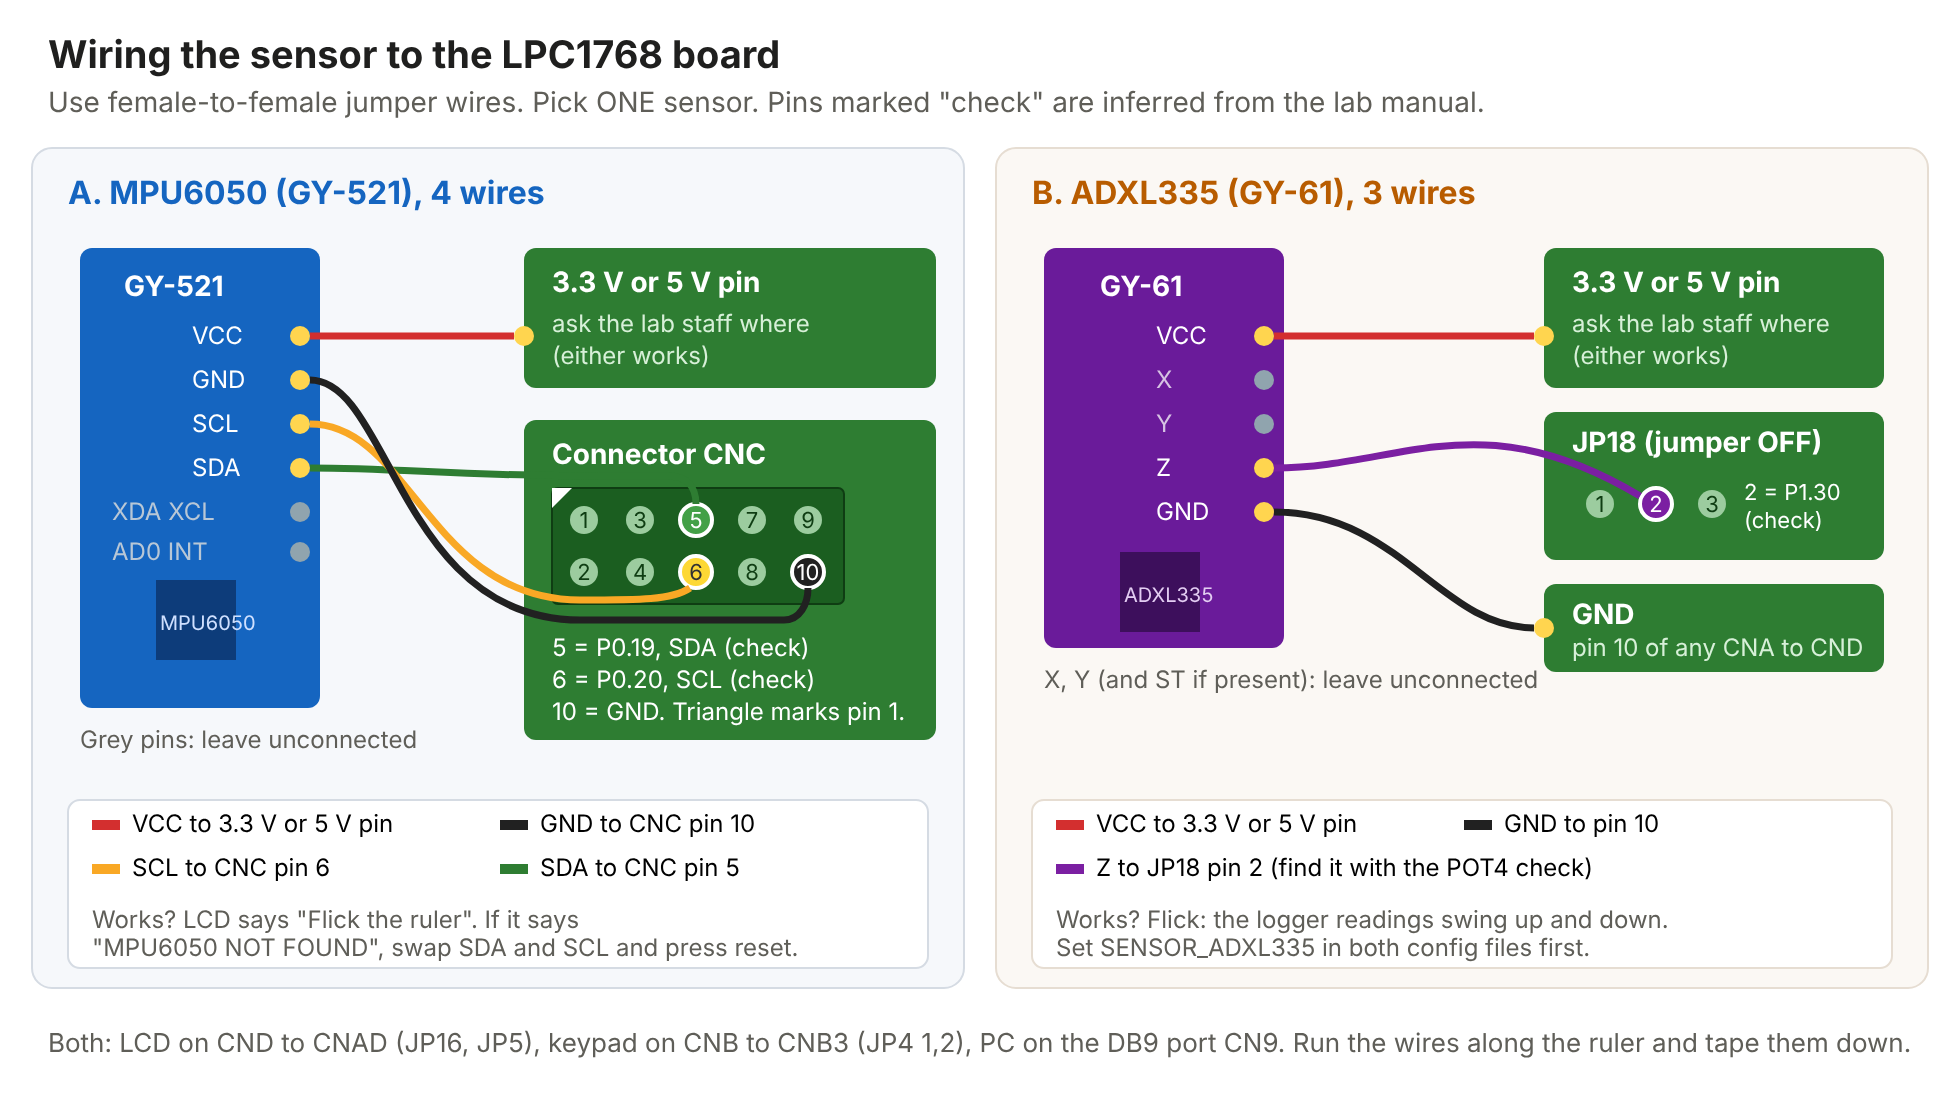
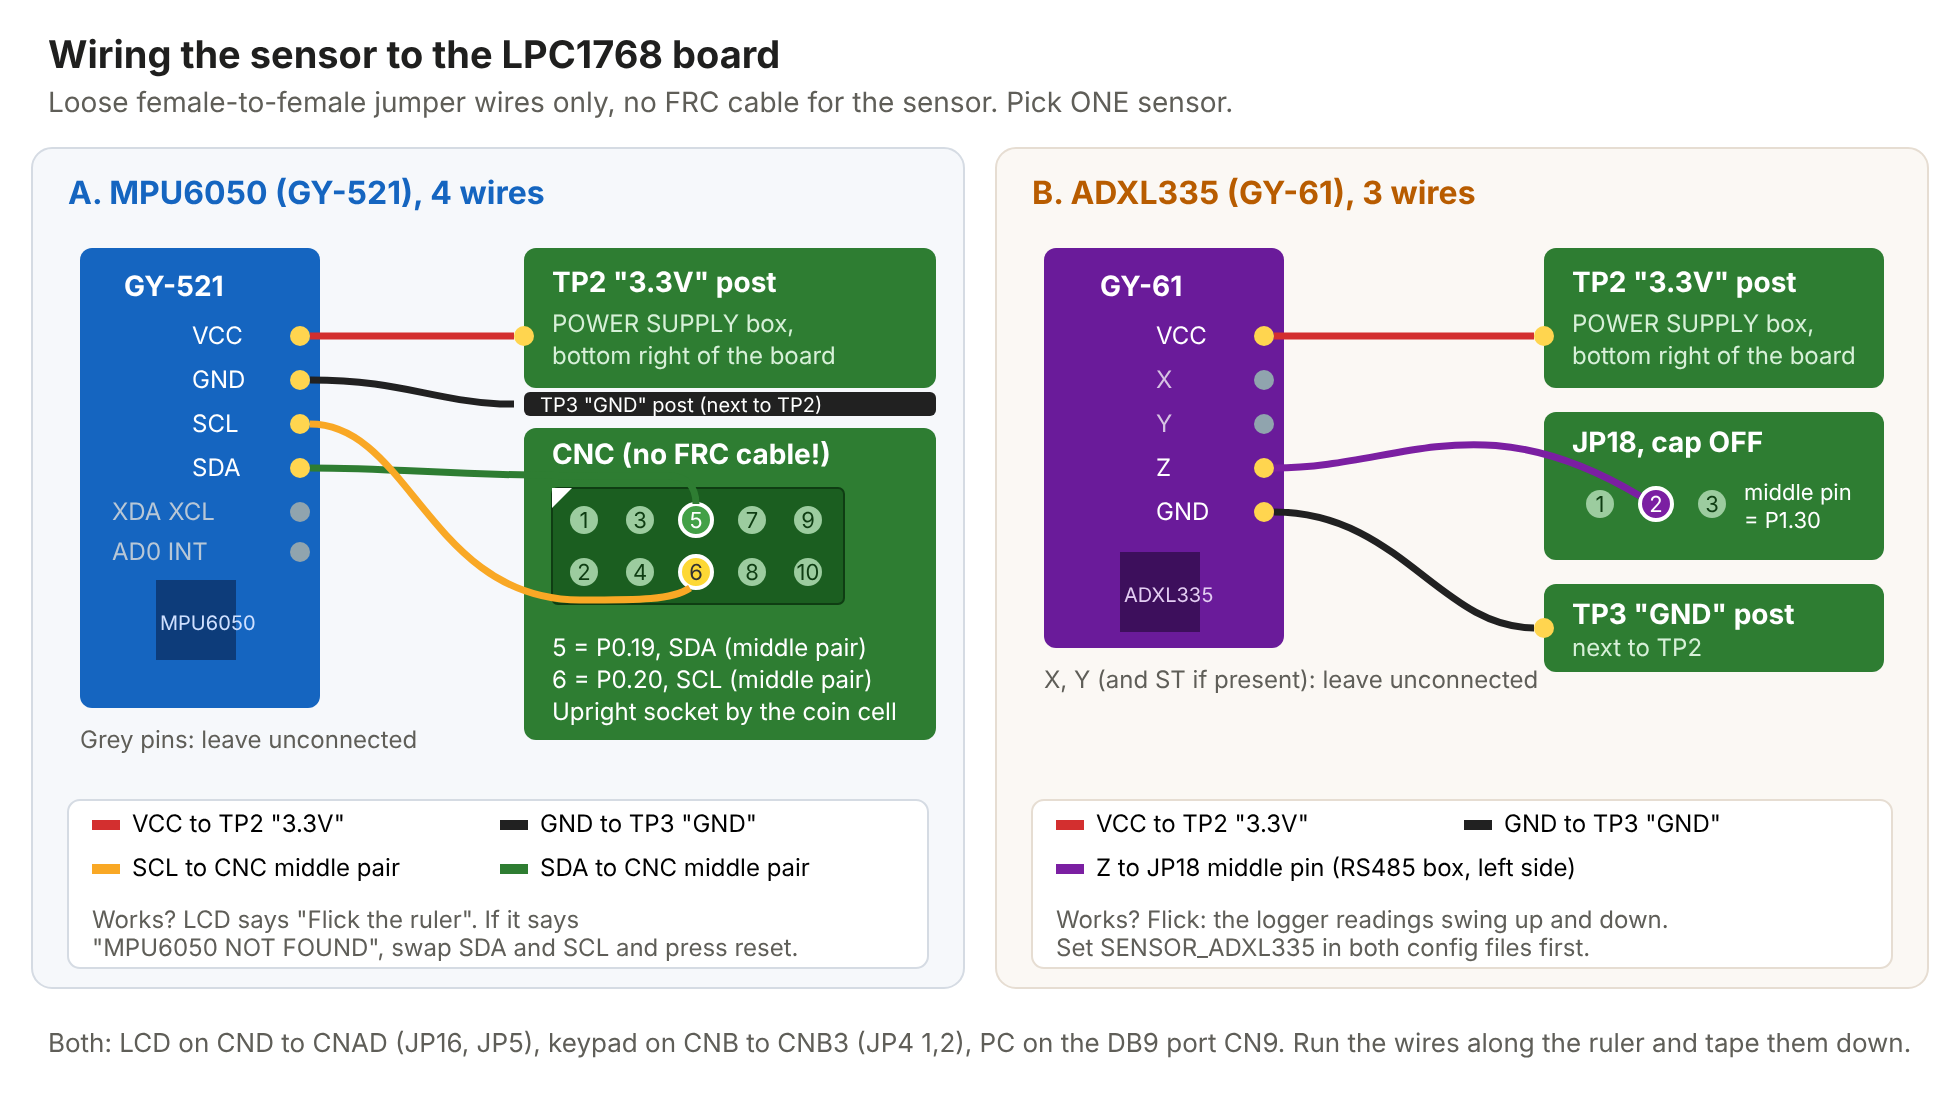
Build guide: board photo table, no-FRC sensor wiring, updated wiring diagram

diff --git a/docs/BUILD_GUIDE.md b/docs/BUILD_GUIDE.md
@@ -108,48 +108,76 @@ write the numbers down so you can rebuild it the same way.
 
 ## Part 3: Wire the sensor to the board
 
+**Important: no FRC ribbon cable for the sensor.** An FRC cable only joins
+one 10-pin socket to another 10-pin socket (like CND to CNAD for the LCD).
+The sensor module has single pins, so it connects with **loose
+female-to-female jumper wires**, one wire per pin. The FRC cables are only
+for the LCD and the keypad.
+
+### Where everything is on the lab board
+
+![Where everything is on the lab board](img/board_annotated.png)
+
+| Mark on the photo | What it is | Used for |
+|---|---|---|
+| 1: TP2 "3.3V" | Small black test post in the POWER SUPPLY box, bottom right | Sensor VCC (both sensors) |
+| 2: TP3 "GND" | The post right next to TP2 | Sensor GND (both sensors) |
+| TP1 "+5V" | Third post | Not needed |
+| 3: JP18 | Small 3-pin jumper in the RS485 box on the left side, just above the coin cell. Normally a plastic cap joins pins 2 and 3, linking the AD0.4 knob (POT4) to the processor | ADXL335 only: cap off, Z wire on the **middle pin** (P1.30). Leave it alone for the MPU6050 |
+| AD0.4 pot (POT4) | Blue knob at the top, next to AD0.5 | Dry run with the ADXL335 setting |
+| 4: CNC | The upright 10-pin socket to the left of the clear processor cover, beside the coin cell | MPU6050 only: SDA and SCL on the **middle pair** of pins (pins 5 and 6) |
+| CNB | The socket on the right of the processor cover (where the ribbon is in the photo) | Keypad cable (CNB to CNB3) |
+| 5: CNAD | Socket just under the LCD, next to POT2 | LCD cable (CND to CNAD) |
+| 6: CNB3 | Socket to the right of the 4x4 keys | Keypad cable |
+
+TP2 and TP3 are test posts, not header pins. If a female jumper end doesn't
+grip them firmly, use a small crocodile-clip lead (about Rs 50 for a pack).
+
+### The wiring for each sensor
+
 ![Wiring for both sensors](img/wiring.png)
 
-### If you use the MPU6050 (GY-521)
+#### If you use the MPU6050 (GY-521): 4 wires
 
-The GY-521 has 8 pins. You only use 4. Use **female-to-female** wires: one
-end goes on the module's pin, the other on the board's header pin (both are
-male pins).
+1. Leave CNC empty: no FRC cable in it.
+2. Take 4 female-to-female jumper wires. Push one end of each onto the
+   GY-521's **VCC**, **GND**, **SCL** and **SDA** pins.
+3. Push the other ends on like this:
 
-| GY-521 pin | Goes to on the LPC1768 board |
+| GY-521 pin | Goes to |
 |---|---|
-| VCC | **TP2, marked "3.3V"**, in the POWER SUPPLY box at the bottom right of the board |
-| GND | **TP3, marked "GND"**, right next to TP2 (or pin 10 of any 10-pin FRC connector) |
-| SCL | Connector **CNC** (the upright 10-pin socket left of the processor cover, beside the coin cell), middle row, pin 6 (P0.20) |
-| SDA | Connector **CNC**, middle row, pin 5 (P0.19), next to SCL |
+| VCC | **TP2 "3.3V"** |
+| GND | **TP3 "GND"** |
+| SDA | **CNC, middle pair**, pin 5 (P0.19) |
+| SCL | **CNC, middle pair**, pin 6 (P0.20), beside SDA |
 | XDA, XCL, AD0, INT | Leave unconnected |
 
-**Pins 5 and 6 are always the middle pair** of a 10-pin socket (pairs go
-1-2, 3-4, 5-6, 7-8, 9-10), so put SDA and SCL on the two middle pins. If the
-LCD says MPU6050 NOT FOUND, just swap those two wires.
+The black plastic box around CNC is only a guide. The jumper ends slide in
+side by side onto the metal pins inside it. Pins in a 10-pin socket go in
+pairs (1-2, 3-4, 5-6, 7-8, 9-10), so pins 5 and 6 are always the middle pair,
+whichever way up the socket is. If the LCD says **MPU6050 NOT FOUND**, swap
+the SDA and SCL wires and press reset.
 
-**Finding pin 1 on CNC (only matters for pin 10):** the 10-pin box connector has a small
-triangle or "1" next to pin 1. Pins are numbered in a zigzag: 1 and 2 face
-each other, then 3 and 4, and so on, with pin 10 at the far end. Check the
-CNC picture in Appendix C of the lab manual (or ask the staff) to confirm
-that pins 5 and 6 are P0.19 and P0.20.
+#### If you use the ADXL335 (GY-61): 3 wires
 
-### If you use the ADXL335 (GY-61)
+The GY-61 has 5 pins (VCC, X, Y, Z, GND; some have a 6th, ST). You use 3.
 
-The GY-61 has 5 pins (VCC, X, Y, Z, GND; some have a 6th, ST). You only use 3.
+1. Pull the plastic cap off JP18 and keep it safe (you need it back for
+   normal lab experiments).
+2. Take 3 female-to-female jumper wires and connect:
 
-| GY-61 pin | Goes to on the LPC1768 board |
+| GY-61 pin | Goes to |
 |---|---|
-| VCC | **TP2, marked "3.3V"**, in the POWER SUPPLY box at the bottom right |
-| GND | **TP3, marked "GND"**, next to TP2 |
-| Z | The **middle pin of JP18** (in the RS485 box, left side of the board). Take the JP18 jumper cap off first and keep it safe |
+| VCC | **TP2 "3.3V"** |
+| GND | **TP3 "GND"** |
+| Z | **JP18 middle pin** (P1.30, AD0.4) |
 | X, Y, ST | Leave unconnected |
 
-**Finding the right JP18 pin:** before wiring the sensor, put the JP18
-jumper on pins 2 and 3 (the manual's setting for POT4), flash, and turn POT4.
-The logger readings should change. Then take the jumper off and put the Z
-wire on pin 2. Flick: if the readings follow the flick, that's the pin. If
-not, try pin 3.
+**Why the middle pin:** JP18 is a selector. The cap on pins 2 and 3 connects
+the knob to the processor, so the middle pin (pin 2) is the one shared by
+both positions, and that's the processor's input (worked out from the
+layout). To double-check: with the cap on 2 and 3 and the ADXL335 setting
+flashed, turning POT4 should change the logger readings.
 
 **If JP18 doesn't work at all:** put the Z wire on CND pin 1 (P0.23,
 AD0.0), set `ADC_CH 0` and `USE_LCD 0` in `board/config.h`, and read the
@@ -157,12 +185,8 @@ results on the laptop only. The LCD uses CND, so it can't be connected.
 
 ### For both sensors
 
-![Where everything is on the lab board](img/board_annotated.png)
-
-TP2 and TP3 are small test-point posts. If a female jumper doesn't grip, use a small crocodile-clip lead instead.
-
 **Wire routing:**
-- Tape the 4 wires along the ruler with small pieces of insulation tape,
+- Tape the wires along the ruler with small pieces of insulation tape,
   running back toward the clamp.
 - Leave a loose loop of wire between the clamp and the board, so the wires
   never pull on the beam.
@@ -170,7 +194,7 @@ TP2 and TP3 are small test-point posts. If a female jumper doesn't grip, use a s
   part doesn't swing.
 - Keep the wiring exactly the same for all tests. Wires add a little weight.
 
-**Other board connections** (same as your lab experiments):
+**Other board connections** (same as your lab experiments, these DO use FRC cables):
 - LCD: FRC cable from CND to CNAD, short JP16 and JP5. Use POT3 if the text
   is invisible.
 - Keypad: FRC cable from CNB to CNB3, short JP4 (1,2).
